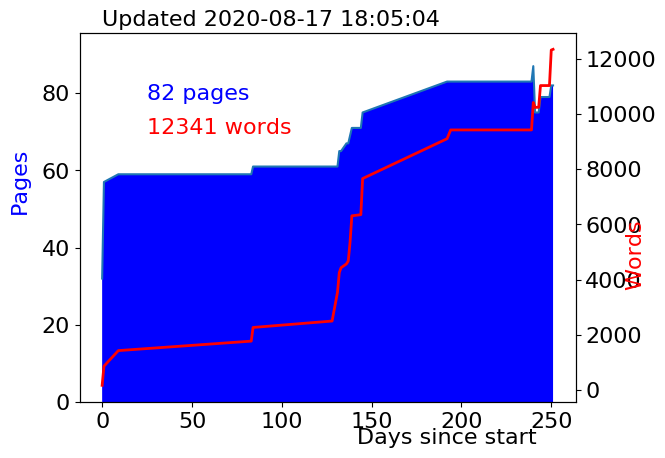
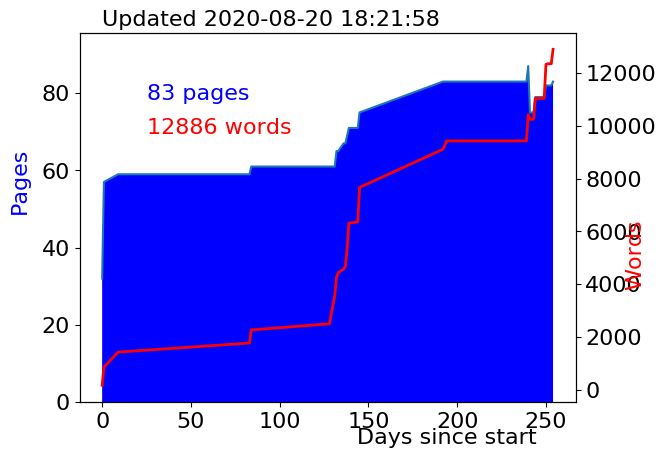
working backwards in the analysis section yolo

diff --git a/Chapters/Results.tex b/Chapters/Results.tex
@@ -2,6 +2,10 @@
 
 \section{Signal Yield}
 
+0 events are observed in each signal region, in full agreement with the background estimate of fewer than 1 event per \ac{SR}. The result of each cut made in each \ac{SR} can be seen in \autoref{tab:data_cutflow_srmm}, \autoref{tab:data_cutflow_sree}, and \autoref{tab:data_cutflow_sremu} for SR-$\mu\mu$, SR-$ee$, and SR-$e\mu$, respectively. Also in agreement with the expectation, most powerful background discriminators are the \dpt cut for electrons and cosmic veto for muons. 
+
+This analysis was designed to be as general as possible, so the results can be applied, with some care, to any new physics signature that results in 2 leptons with high \absdz and high \pt.  
+
 \begin{table}[htb]
 \begin{center}
 %\resizebox{\columnwidth}{!}{
@@ -82,5 +86,21 @@ electron \nmiss $\leq 1$ &0.000 $\pm$ 0.000 \\
 \end{table}
 
 \section{Interpretation}
+
+While these results are designed to be applicable to many \ac{BSM} physics models, we use them to set bounds on the possible parameter space of sleptons in \ac{GMSB} \ac{SUSY} models, discussed in \todo{theory ref}, now further restricted due to the lack of events in any \ac{SR} in this analysis. These limits are computed using HistFitter \cite{histfitter}, an \ac{ATLAS} framework that combines the observed number of events with uncertainties on background predictions and MC modeling and calculates both model dependent and model independent limits using the CL$_{\text{S}}$ technique \cite{CLs-1}. 
+
+Model dependent limits are set in terms of the mass and lifetime of sleptons. Four different limits are set using the results of this analysis: each selectron, smuon, or stau \ac{NSLP}, or the mass degenerate case with all three as co-NSLPs. For the selectron and smuon cases, the results from SR-$ee$ and SR-$\mu\mu$, respectively, are used. While for the stau and co-NSLP cases, all three SRs are combined.
+
+\todo{plots when finished}
+
+This search provides almost an order of magnitude of exclusion over the previous result from OPAL and 90 \GeV. 
+
+
+Additionally, model independent limits are set on generic new physics processes. These limits are based on the visible cross-section of new physics ($\langle \epsilon \sigma^{95}_{\text{obs}}$) and the observed ($S^{95}_{\text{obs}}$) and expected ($S^{95}_{\text{exp}}$) number of signal events. 
+
+\todo{table when finished.}
+\todo{what are toys}
+
+
 
 \section{Future Prospects}

diff --git a/Chapters/Systematics.tex b/Chapters/Systematics.tex
@@ -1,9 +1,14 @@
-\chapter{Systematics}
+\chapter{Signal Systematics}
 
-\section{Monte Carlo Systematics}
+In order to use this analysis to make a statement about a potential \ac{BSM} model, the extent to which the signal \ac{MC} correctly simulates the real physical environment must be evaluated. Differences between data and \ac{MC} are studied. Where possible, the \ac{MC} is corrected to better represent the data using \emph{scale-factors}, and in other cases systematic uncertainties are applied to the final result. 
 
-\section{Cosmic Muon Identification}
+There are many standard systematic uncertainties derived by \ac{ATLAS}, for example the measurement of the energy of jets or the sagitta of muons, that do not have a large impact on this analysis with nonstandard physics objects. A major source of systematic uncertainty on the signal \ac{MC} in this analysis comes from the modeling of the selection of displaced leptons, for which there is no comparable data. As a result, this is evaluated in several steps: first the trigger, reconstruction, and selection efficiencies are compared for prompt leptons in the same physics process in data and \ac{MC}; then the tracking efficiency is compared between signal muons and cosmic muons, a different physical phenomenon that also provides high \pt, high \absdz tracks; finally, the lepton reconstruction efficiency is studied with respect to displacement and a conservative additional uncertainty to account for any missed effects in data. Other event-level systematic uncertainties are applied to account for mismodeling of pileup and theory assumptions made during \ac{MC} generation. 
 
-\section{Electron Reconstruction}
+\todo{table when finalized}
 
-\section{Trigger Efficiency}
+\section{Displaced Lepton Reconstruction}
+
+\section{Pileup Modeling}
+
+\section{Theory Uncertainties}
+

diff --git a/FrontBackMatter/Acronyms.tex b/FrontBackMatter/Acronyms.tex
@@ -65,7 +65,6 @@
 \acro{MC}{Monte Carlo simulation}
 \acro{SM}{Standard Model}
 \acro{BSM}{Beyond the Standard Model}
-\acro{SUSY}{Supersymmetry}
 \acro{QCD}{Quantum Chromodynamics}
 \acro{PDF}{Parton Distribution Function}
 \acro{DM}{Dark Matter}
@@ -76,6 +75,7 @@
 \acro{MSSM}{Minimal Supersymmetric Standard Model}
 \acro{LSP}{Lightest Supersymmetric Particle}
 \acro{CP}{charge parity}
+\acro{GMSB}{Gauge Mediated Supersymmetry Breaking}
 
 
 % analysis acronyms

diff --git a/scripts/pages.md b/scripts/pages.md
@@ -296,3 +296,5 @@
 + [2020-08-17-18h03m16s] 82 12341
 + [2020-08-17-18h04m19s] 82 12341
 + [2020-08-17-18h05m04s] 82 12341
++ [2020-08-20-18h07m54s] 83 12642
++ [2020-08-20-18h21m58s] 83 12886
